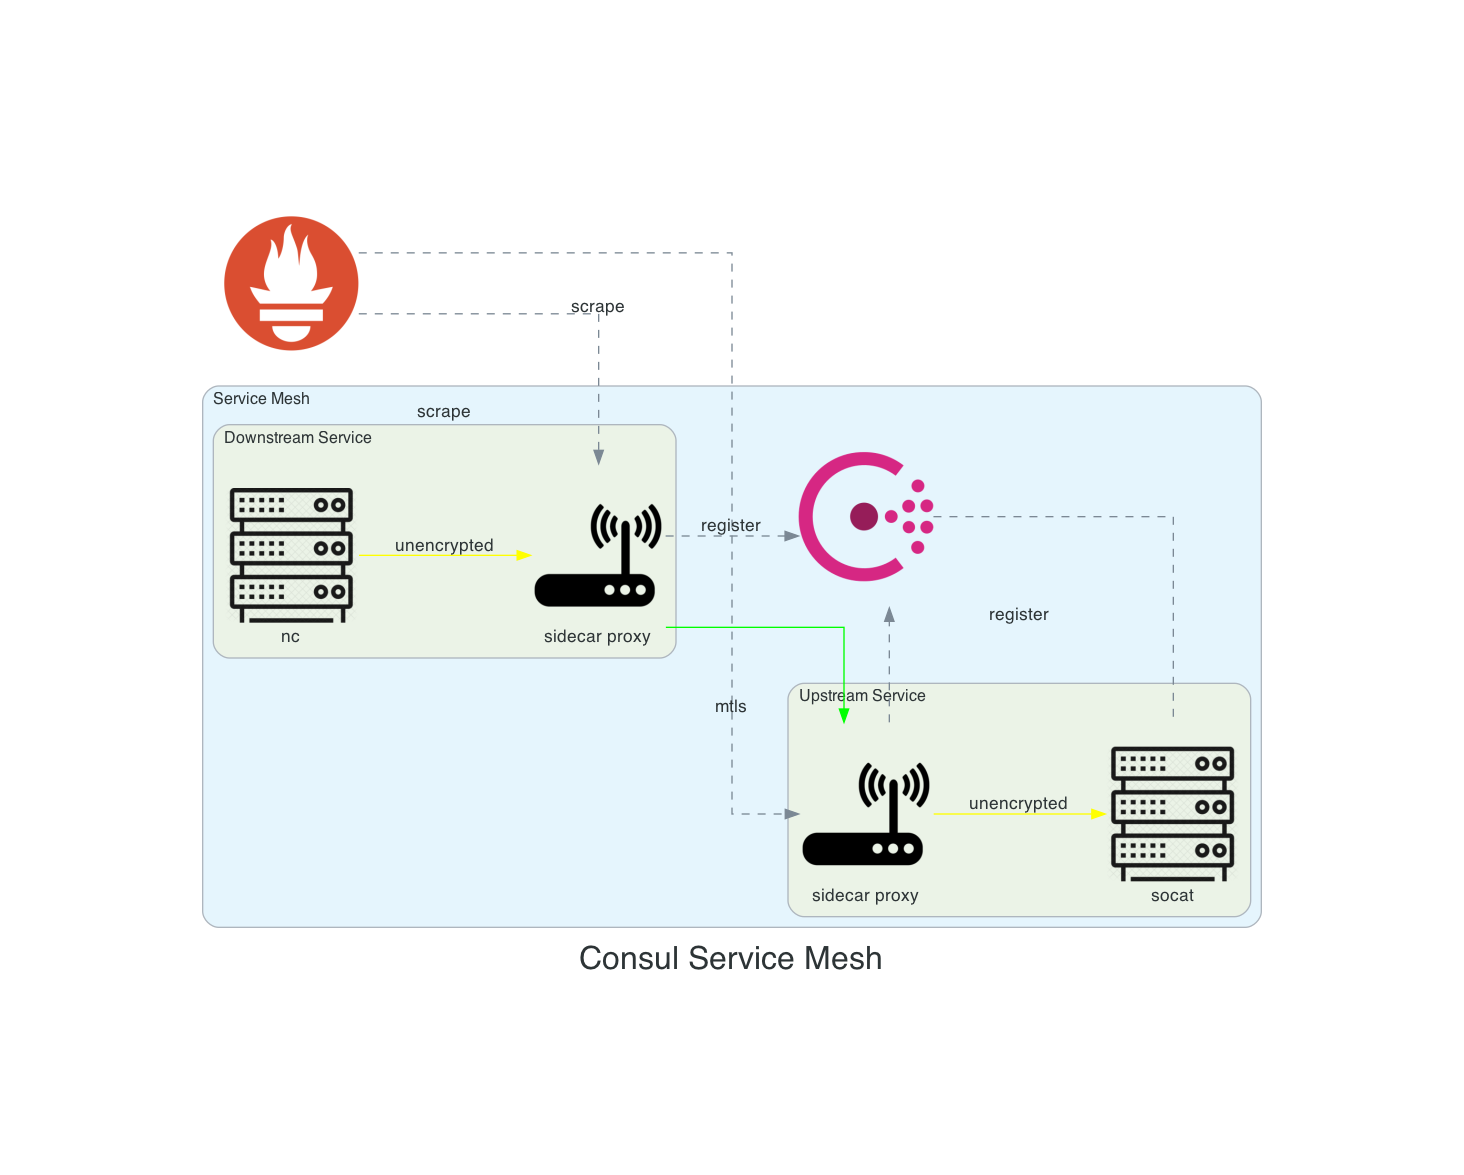
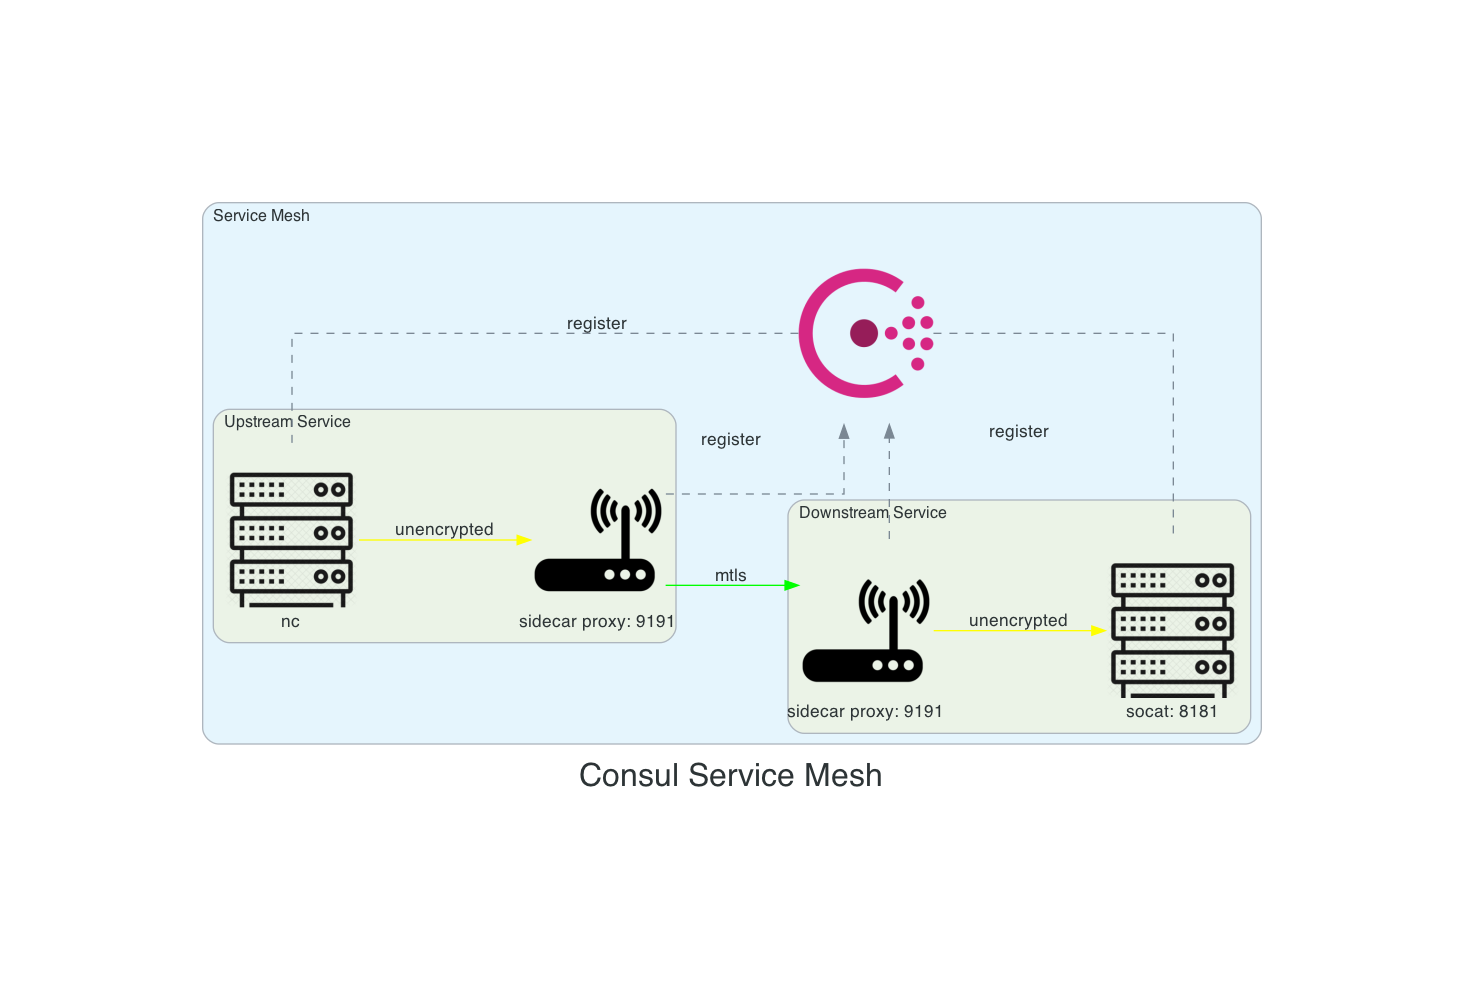
:recycle: connection direction and usage more clear
NOTE: envoy sidecar usage still untested.

diff --git a/docs/network.py b/docs/network.py
@@ -21,33 +21,34 @@ graph_attr = {
 
 with Diagram(name="Consul Service Mesh", filename=diagram_path, graph_attr=graph_attr, direction="LR", show=True):
 
-    metrics = Prometheus()
-    scrape = Edge(label="scrape", style="dashed")
+    #metrics = Prometheus()
+    #scrape = Edge(label="scrape", style="dashed")
 
     with Cluster("Service Mesh"):
 
-        with Cluster("Downstream Service"):
-            user = Rack("nc")
-            sidecar_user = Router("sidecar proxy")
-
         with Cluster("Upstream Service"):
-            sidecar_service = Router("sidecar proxy")
-            service = Rack("socat")
+            upstream = Rack("nc")
+            sidecar_upstream = Router("sidecar proxy: 9191")
+
+        with Cluster("Downstream Service"):
+            downstream = Rack("socat: 8181")
+            sidecar_downstream = Router("sidecar proxy: 9191")
 
         mtls = Edge(label="mtls", color="green")
         plain = Edge(label="unencrypted", color="yellow")
 
         # Service Mesh Communication
-        user >> plain >> sidecar_user >> mtls >> sidecar_service >> plain >> service
+        upstream >> plain >> sidecar_upstream >> mtls >> sidecar_downstream >> plain >> downstream
 
         # Consul Service Registration
         consul = Consul()
         register = Edge(label="register", style="dashed")
-        consul - register - service
-        sidecar_user >> register >> consul
-        sidecar_service >> register >> consul
+        consul - register - upstream
+        consul - register - downstream
+        sidecar_upstream >> register >> consul
+        sidecar_downstream >> register >> consul
 
         # Observability
-        metrics >> scrape >> sidecar_user
-        metrics >> scrape >> sidecar_service
+        #metrics >> scrape >> sidecar_upstream
+        #metrics >> scrape >> sidecar_downstream
         #metrics >> scrape >> consul

diff --git a/README.md b/README.md
@@ -7,7 +7,7 @@ Learning Consul Connect and applying it.
 Run the following commands in separate terminals:
 
 1. Install prerequisites: `make setup`
-1. Start consul, upstream service, downstream service: `make start`
+1. Start consul, downstream service, upstream service: `make start`
    - Logs are stored in the [folder](./logs/).
 1. Test the service mesh: `make test-service-mesh`
 
@@ -19,7 +19,7 @@ Run the following commands in separate terminals:
 
 #### Upstream Service - socat
 
-Register sidecar process for the service in [socat.hcl](./consul.d/socat.hcl):
+Register sidecar process for the service in [upstream.hcl](./consul.d/upstream.hcl):
 
 ```hcl
 service {
@@ -47,19 +47,19 @@ for the observability and traffic shaping features
 available in Consul versions 1.5 and higher.
 
 Use to start the Consul included L4 proxy sidecar:
-- `make service-sidecar-socat`
+- `make upstream-sidecar`
 
 NOTE: The `-sidecar-for` argument takes a Consul service ID, _not a service name_.
 
 #### Downstream Service - nc
 
-Register downstream service using [web.hcl](./consul.d/web.hcl).
-It specifies web's upstream dependency on socat, and the port that the proxy will listen on.
+Register downstream service using [downstream.hcl](./consul.d/downstream.hcl).
+It specifies downstream dependency on socat, and the port that the proxy will listen on.
 
-The definition includes an upstream block.
-Upstreams are ports on the local host
+The definition includes an downstream block.
+Downstreams are ports on the local host
 that will be proxied to the destination service.
-The upstream block's local_bind_port value is the port your service
+The downstream block's local_bind_port value is the port your service
 will communicate with to reach the service you depend on.
 
 It registers a sidecar proxy for the service web
@@ -68,7 +68,7 @@ to establish mTLS connections to socat.
 
 This will not start the sidecar, but only informs consul about its existence.
 Use:
-- `make service-sidecar-web`
+- `make downstream-sidecar`
 to start the sidecar proxy.
 
 If we were running a real web service it would talk to its proxy on a loopback address.
@@ -85,10 +85,14 @@ you will pretend to be the web service by
 talking to its proxy on the port that we specified (9191).
 
 In production,
-_services should only accept loopback connections_.
+_services should only accept loopback connections**.
 Any traffic in and out of the machine
 should travel through the proxies and
 therefore would always be encrypted.
+
+## Testing
+
+- https://www.consul.io/api-docs/health#list-nodes-for-connect-capable-service
 
 ## Intentions
 
@@ -218,7 +222,9 @@ Hence perfect tool to test the tls functionality of the Consul Service Mesh.
 
 ## Questions
 
-### Why are there two sidecars: sidecar-socat and sidecar-web?
+### Why are there two sidecars?
 
-1. _sidecar-socat_ represents the upstream service
-1. _sidecar-web_ simulates a dependent downstream service using `nc`.
+The upstream services are the ones that consume the downstream service.
+
+1. _sidecar: upstream_ represents the upstream service - it receives requests and response to them.
+1. _sidecar: downstream_ simulates a dependent downstream service using `nc`. - which send request to the upstream service.
